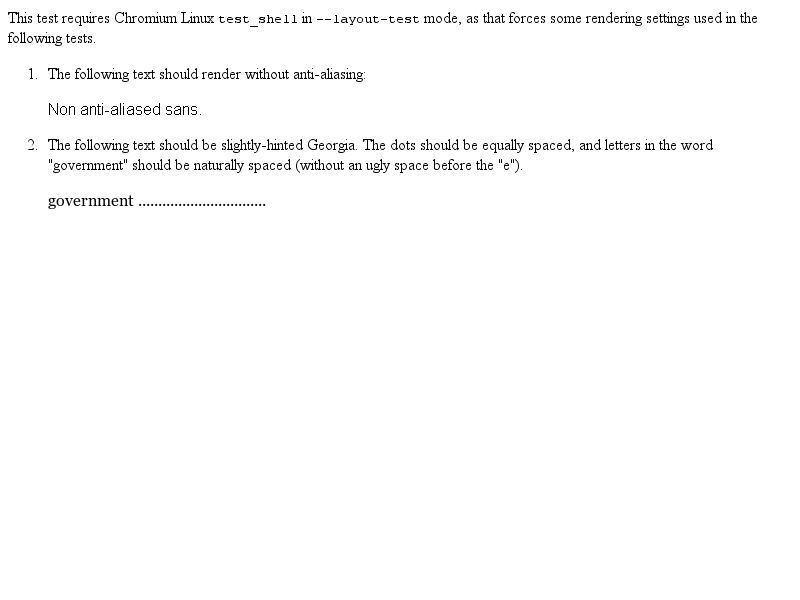
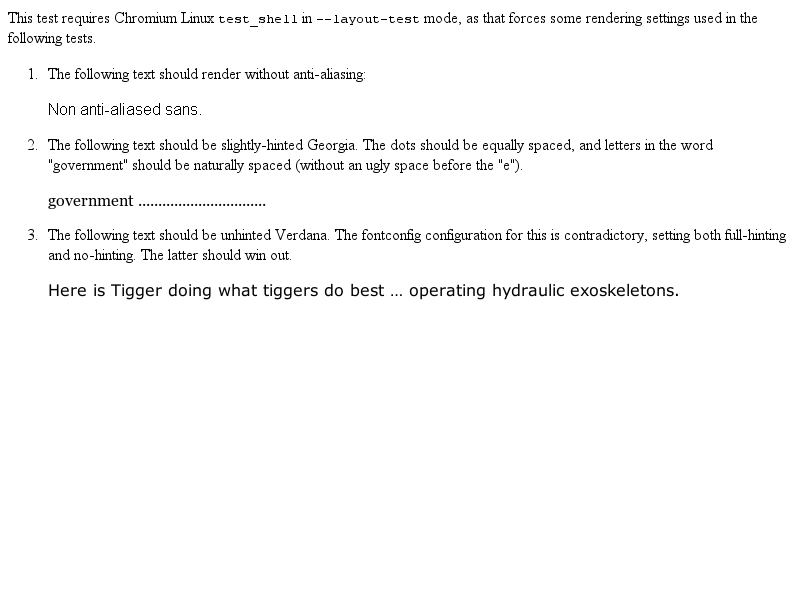
2010-03-30  Adam Langley  <agl@chromium.org>
Reviewed by David Levin.

        [chromium] linux: prefer the "hinting" fontconfig preference.

        fontconfig can give contradictory hinting information, setting
        "hinting" to zero and "hintstyle" to non-zero. In this case we
        should take the "hinting" preference.

        https://bugs.webkit.org/show_bug.cgi?id=36602

        * platform/graphics/chromium/FontPlatformDataLinux.cpp:
        (WebCore::FontPlatformData::setupPaint):

git-svn-id: https://svn.webkit.org/repository/webkit/trunk@56800 268f45cc-cd09-0410-ab3c-d52691b4dbfc

Changed region(s): [[0.0625, 0.48, 0.8438, 0.51], [0.0625, 0.39, 0.4062, 0.45], [0.4375, 0.39, 1.0, 0.42]]

diff --git a/LayoutTests/platform/chromium/fast/text/chromium-linux-fontconfig-renderstyle.html b/LayoutTests/platform/chromium/fast/text/chromium-linux-fontconfig-renderstyle.html
@@ -18,6 +18,17 @@
           government ................................
         </p>
       </li>
+
+      <li>
+        <p>The following text should be unhinted Verdana. The fontconfig
+          configuration for this is contradictory, setting both full-hinting
+          and no-hinting. The latter should win out.</p>
+
+        <p style="font-family:NonHintedSans">
+          Here is Tigger doing what tiggers do best &hellip; operating
+          hydraulic exoskeletons.
+        </p>
+      </li>
     </ol>
   </body>
 </html>

diff --git a/WebCore/platform/graphics/chromium/FontPlatformDataLinux.cpp b/WebCore/platform/graphics/chromium/FontPlatformDataLinux.cpp
@@ -131,7 +131,18 @@ void FontPlatformData::setupPaint(SkPaint* paint) const
     const float ts = m_textSize > 0 ? m_textSize : 12;
 
     paint->setAntiAlias(m_style.useAntiAlias == FontRenderStyle::NoPreference ? isSkiaAntiAlias : m_style.useAntiAlias);
-    paint->setHinting(m_style.useHinting == FontRenderStyle::NoPreference ? skiaHinting : (SkPaint::Hinting) m_style.hintStyle);
+    switch (m_style.useHinting) {
+    case FontRenderStyle::NoPreference:
+        paint->setHinting(skiaHinting);
+        break;
+    case 0:
+        paint->setHinting(SkPaint::kNo_Hinting);
+        break;
+    default:
+        paint->setHinting(static_cast<SkPaint::Hinting>(m_style.hintStyle));
+        break;
+    }
+
     paint->setTextSize(SkFloatToScalar(ts));
     paint->setTypeface(m_typeface);
     paint->setFakeBoldText(m_fakeBold);
